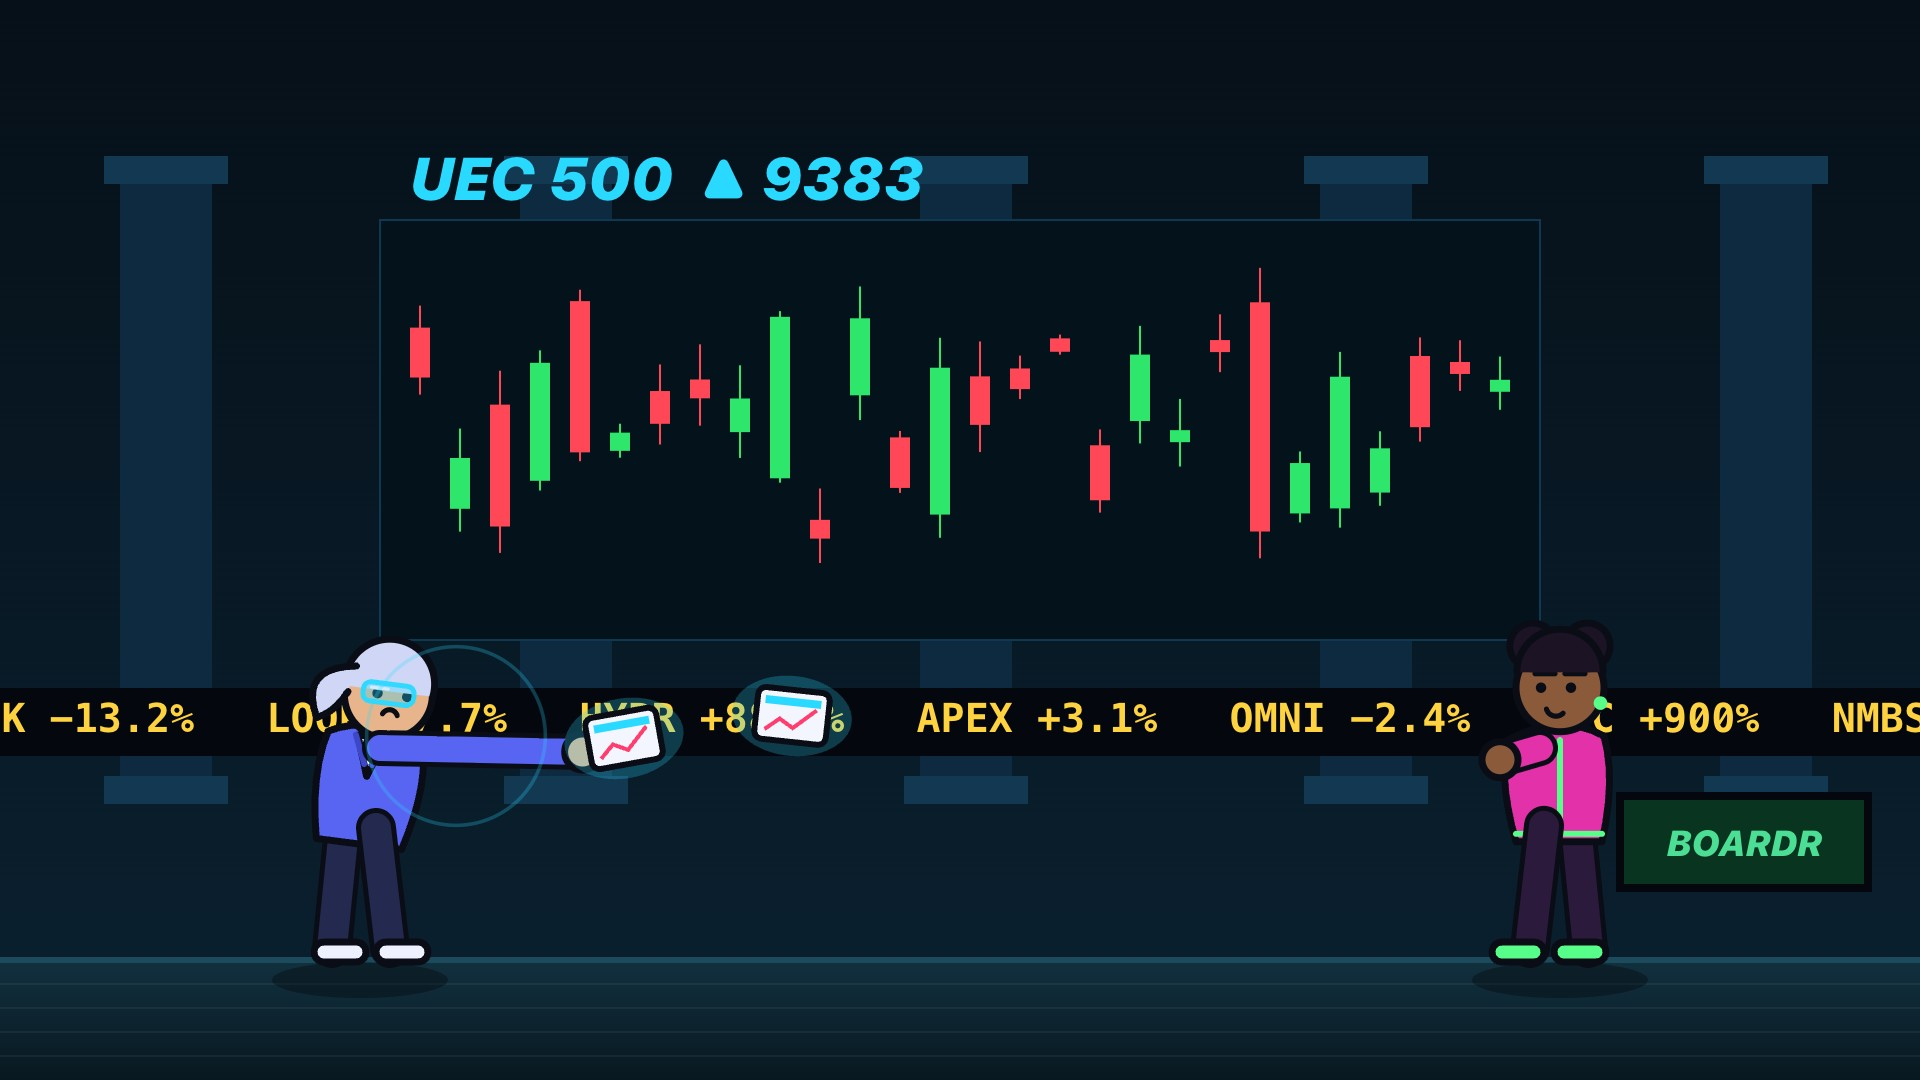
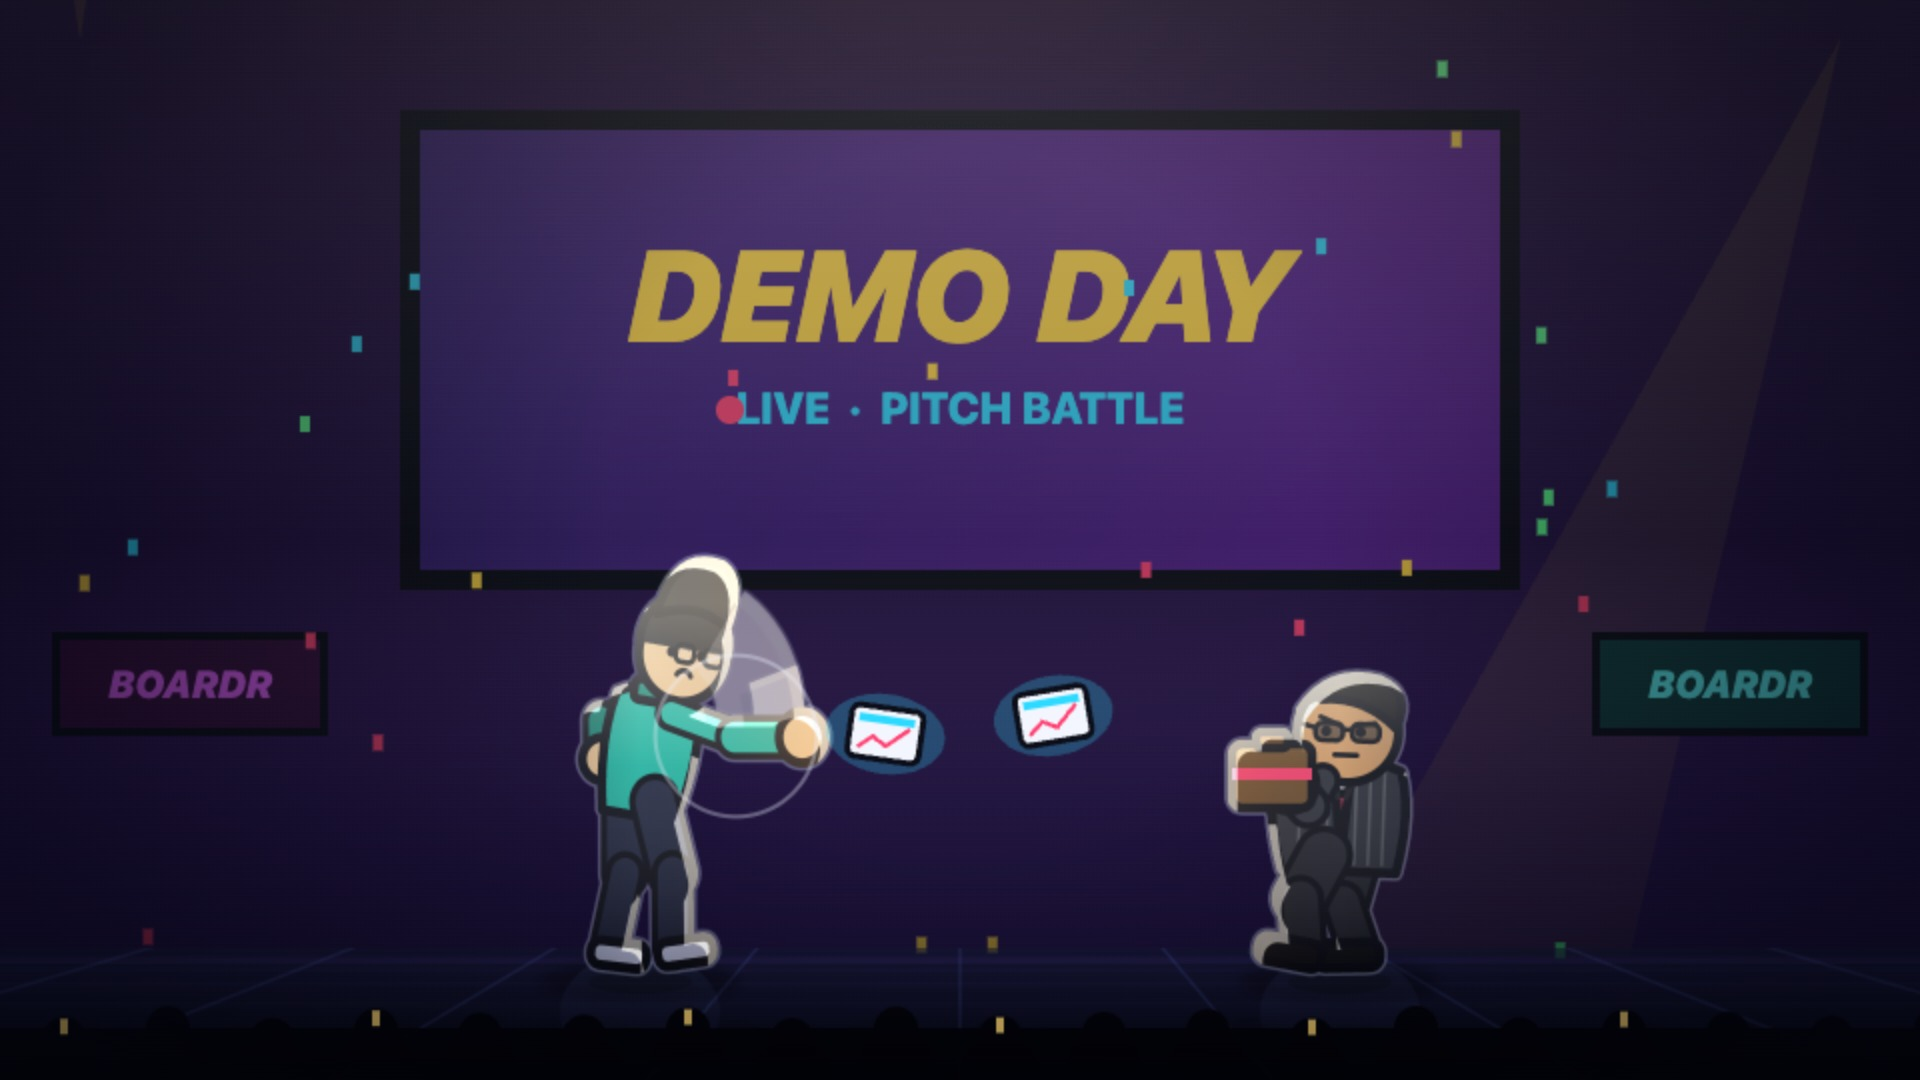
fix: the share card stops lying about the game
og-image.jpg and shots/ were cut on 2026-07-18 and had survived the entire
v2.0 art pass, v2.4, v2.5 and v2.6 — four releases of character work that
nobody following a shared link had ever seen. Stale would have been
forgivable. It had also gone WRONG:

  - "6 FIGHTERS" against a roster of nine.
  - "PLAY FREE IN YOUR BROWSER — NO SIGNUP" against AUTH.REQUIRED = true.
    Every share promised no signup and delivered a sign-in wall.

So the copy is derived from the data now. FIGHTERS.length and ARENAS.length
are counted at render time; add a founder and the card counts them. The
portraits go through the game's own drawPortrait, so the cel shading, the
silhouette work and the new key line turn up here for free next time too.

The screenshots are real frames of the real game, and getting there took
three tries, each wrong in an instructive way:

  - Shots reuse one live match, so state LEAKS. The first cut had a founder
    still wearing the Unicorn Mode horn on the Demo Day stage, and the rival
    frozen in a grimace it had earned two screenshots earlier.
  - renderGame only DRAWS. An attack started and never stepped sits in its
    wind-up forever, which is why both fighters looked like they were
    politely guarding. Stepping needs game.state = 'fighting' — I had
    'fight', which is not a state, so the update loop skipped the fighters
    entirely and 22 frames of stepping changed nothing.
  - A fighter resolves its `special` at CONSTRUCTION. Setting a.special
[…]

diff --git a/lab/marketing.js b/lab/marketing.js
@@ -1,0 +1,230 @@
+// Marketing assets, rendered BY THE GAME so they cannot drift from the build.
+//
+// The previous set was cut on 2026-07-18 and was still live through v2.0's art
+// pass, v2.4, v2.5 and v2.6 — four releases of character work that nobody
+// sharing a link ever saw. Worse, the card had gone from stale to WRONG: it
+// advertised "6 FIGHTERS" against a roster of nine, and "NO SIGNUP" against
+// AUTH.REQUIRED = true. Anyone clicking through hit a sign-in wall the card
+// had just promised them they would not.
+//
+// So the copy is derived from the data, not typed in. Add a fighter and the
+// card counts it.
+//
+//   import { renderAll } from '/lab/marketing.js';
+//   await renderAll();            // writes og-image.jpg + shots/*.jpg
+//
+// Needs dev-server.py (its PUT handler is what puts bytes on disk).
+
+const YELLOW = '#ffd23f', PINK = '#ff3d6e', CYAN = '#29d9ff', INK = '#05070f';
+
+function canvas(w, h) {
+  const c = document.createElement('canvas');
+  c.width = w; c.height = h;
+  return c;
+}
+
+async function put(path, cv, quality = 0.92) {
+  const blob = await new Promise((r) => cv.toBlob(r, 'image/jpeg', quality));
+  const res = await fetch(path, { method: 'PUT', body: blob });
+  return `${path} → ${res.status} (${Math.round(blob.size / 1024)} KB)`;
+}
+
+// Punchy display text: dark outline under a flat fill, the same treatment the
+// in-game popups and the challenge card use.
+function shout(ctx, text, x, y, size, fill, { align = 'center', weight = '900 italic', stroke = 9 } = {}) {
+  ctx.save();
+  ctx.textAlign = align;
+  ctx.font = `${weight} ${size}px system-ui`;
+  ctx.lineJoin = 'round';
+  if (stroke) { ctx.strokeStyle = INK; ctx.lineWidth = stroke; ctx.strokeText(text, x, y); }
+  ctx.fillStyle = fill;
+  ctx.fillText(text, x, y);
+  ctx.restore();
+}
+
+function backdrop(ctx, W, H) {
+  const g = ctx.createLinearGradient(0, 0, W, H);
+  g.addColorStop(0, '#0b0e1a'); g.addColorStop(0.5, '#1a1030'); g.addColorStop(1, '#241238');
+  ctx.fillStyle = g; ctx.fillRect(0, 0, W, H);
+
+  ctx.save();                                   // burst rays
+  ctx.translate(W / 2, H * 0.46);
+  ctx.globalAlpha = 0.075; ctx.fillStyle = YELLOW;
+  for (let i = 0; i < 14; i++) {
+    ctx.rotate(Math.PI / 7);
+    ctx.beginPath(); ctx.moveTo(0, 0); ctx.lineTo(-46, 900); ctx.lineTo(46, 900); ctx.closePath(); ctx.fill();
+  }
+  ctx.restore();
+
+  ctx.save();                                   // corner stripes
+  ctx.globalAlpha = 0.9;
+  ctx.fillStyle = PINK;
+  ctx.beginPath(); ctx.moveTo(0, 0); ctx.lineTo(120, 0); ctx.lineTo(40, H); ctx.lineTo(0, H); ctx.closePath(); ctx.fill();
+  ctx.fillStyle = YELLOW;
+  ctx.beginPath(); ctx.moveTo(W, H); ctx.lineTo(W - 120, H); ctx.lineTo(W - 40, 0); ctx.lineTo(W, 0); ctx.closePath(); ctx.fill();
+  ctx.restore();
+}
+
+export async function renderOg(path = '/og-image.jpg') {
+  const { drawPortrait } = await import('/src/engine/drawFighter.js');
+  const { FIGHTERS, getFighter } = await import('/src/data/fighters.js');
+  const { ARENAS } = await import('/src/data/arenas.js');
+
+  const W = 1200, H = 630;
+  const cv = canvas(W, H);
+  const ctx = cv.getContext('2d');
+  backdrop(ctx, W, H);
+
+  // Two portraits at the real portrait size, drawn by the game's own renderer,
+  // so the cel shading and silhouette work show up here automatically.
+  //
+  // Layout note: the portraits flank a centre column, and the bullet line is
+  // the widest element on the card — it goes BELOW them rather than beside
+  // them, or it runs straight through both frames.
+  const P = 260, fy = 210;
+  const faces = ['ava', 'dex'].map((id) => {
+    const pc = canvas(P, P);
+    drawPortrait(pc, getFighter(id));
+    return pc;
+  });
+  [[52, faces[0], PINK], [W - 52 - P, faces[1], CYAN]].forEach(([x, pc, ring]) => {
+    ctx.save();
+    ctx.shadowColor = 'rgba(0,0,0,0.55)'; ctx.shadowBlur = 26; ctx.shadowOffsetY = 8;
+    ctx.drawImage(pc, x, fy, P, P);
+    ctx.restore();
+    ctx.strokeStyle = ring; ctx.lineWidth = 6;
+    ctx.beginPath(); ctx.roundRect(x, fy, P, P, 32); ctx.stroke();
+  });
+
+  ctx.textBaseline = 'alphabetic';
+  shout(ctx, 'UEC', W / 2, 190, 132, YELLOW, { stroke: 14 });
+  shout(ctx, 'ULTIMATE ENTREPRENEUR CHALLENGE', W / 2, 240, 27, CYAN, { stroke: 8 });
+  shout(ctx, 'FOUNDERS FIGHT. VALUATIONS FALL.', W / 2, 286, 24, '#c9d4f5', { stroke: 7 });
+
+  // CTA. It no longer claims "no signup" — AUTH.REQUIRED is true, and the card
+  // was sending people to a sign-in wall it had promised did not exist.
+  const label = 'PLAY FREE IN YOUR BROWSER';
+  ctx.font = '900 italic 27px system-ui';
+  const pw = ctx.measureText(label).width + 72;
+  const px = (W - pw) / 2, py = 322;
+  ctx.save();
+  ctx.fillStyle = 'rgba(6,9,22,0.85)';
+  ctx.strokeStyle = YELLOW; ctx.lineWidth = 5;
+  ctx.beginPath(); ctx.roundRect(px, py, pw, 58, 29); ctx.fill(); ctx.stroke();
+  ctx.restore();
+  shout(ctx, label, W / 2, py + 39, 27, YELLOW, { stroke: 0 });
+
+  // Counted, not typed — this is how the card went wrong last time.
+  const bullets = [
+    `${FIGHTERS.length} FIGHTERS`,
+    `${ARENAS.length} ARENAS`,
+    'BUILD YOUR OWN FOUNDER',
+    'FIGHT FRIENDS LIVE',
+  ].join('  ·  ');
+  shout(ctx, bullets, W / 2, 556, 25, '#9fb0d9', { stroke: 6 });
+
+  return put(path, cv);
+}
+
+// A real frame of the real game, captured through the real render path.
+//
+// Two things this has to do that are easy to miss. Every shot reuses the same
+// live match, so state LEAKS — the first cut of these had a fighter still
+// wearing the Unicorn Mode horn on the Demo Day stage and the rival stuck in a
+// hitstun grimace it had earned two screenshots earlier. And renderGame only
+// draws; it does not advance anything, so an attack started and never stepped
+// is frozen in its wind-up. A punch that never extends is not an action shot.
+function reset(g, a, b) {
+  for (const f of [a, b]) {
+    f.state = 'idle'; f.attack = null; f.hitstunT = 0; f.unicornT = 0;
+    f.energy = 0; f.vx = 0; f.vy = 0; f.y = 480; f.flashT = 0; f.comboTaken = 0;
+    f.hp = f.maxHp ?? 100;
+  }
+  g.projectiles.length = 0; g.traps.length = 0; g.afterimages.length = 0;
+  g.fx.particles.length = 0; g.fx.popups.length = 0; g.fx.rings.length = 0;
+  g.fx.shakeMag = 0; g.fx.hitstopT = 0; g.fx.flashA = 0;
+  g.drops.length = 0;
+}
+
+// Start a match with a chosen pair. A fighter resolves its `special` when it is
+// CONSTRUCTED, so you cannot hand someone else's move to an existing fighter —
+// the volley shot has to be cast with the founder who actually owns it.
+async function cast(p1, p2, arenaId) {
+  const { Save } = await import('/src/state.js');
+  const { getArena } = await import('/src/data/arenas.js');
+  const { getFighter } = await import('/src/data/fighters.js');
+  Save.data.tutorialSeen = true;          // else startMatch defers to onboarding
+  UEC.startMatch({ mode: 'solo', p1Def: getFighter(p1), p2Def: getFighter(p2),
+                   arena: getArena(arenaId), difficulty: 'contender', isChallenge: false });
+  for (let i = 0; i < 60 && (UEC.game?.fighters?.length ?? 0) < 2; i++) {
+    await new Promise((r) => setTimeout(r, 50));
+  }
+  return UEC.game;
+}
+
+async function gameShot({ arena, p1, p2, setup, steps = 0, dress = null }) {
+  const R = await import('/src/engine/render.js');
+  const g = await cast(p1, p2, arena);
+  const cv = document.getElementById('gameCanvas');
+  const ctx = cv.getContext('2d');
+  const [a, b] = g.fighters;
+
+  // 'fighting', not 'fight'. An unrecognised state leaves the update loop
+  // skipping the fighters entirely: the attack starts, never advances, and
+  // every shot comes out frozen in its wind-up looking like a guard.
+  g.state = 'fighting'; g.paused = false;
+  reset(g, a, b);
+  setup(g, a, b);
+
+  // Advance the actual simulation so poses, projectiles and impacts are real.
+  for (let i = 0; i < steps; i++) UEC.step(1 / 60);
+  if (dress) dress(g, a, b);              // garnish AFTER stepping, so it survives
+
+  R.renderGame(ctx, g);
+  const out = canvas(cv.width, cv.height);
+  out.getContext('2d').drawImage(cv, 0, 0);
+  return out;
+}
+
+export async function renderShots() {
+  const { UNICORN } = await import('/src/config.js');
+  const results = [];
+
+  // Unicorn mode landing a hit. Stepped far enough for the punch to be OUT and
+  // to have connected, so the impact FX are the game's own, not dressing.
+  // gap 100 / 4 steps is the frame where the punch is OUT and has connected —
+  // found by stepping the sim and watching hasHit, not by eye.
+  results.push(await put('/shots/unicorn-brawl.jpg', await gameShot({
+    arena: 'unicorn', p1: 'ava', p2: 'zara',
+    setup: (g, a, b) => {
+      a.x = 430; b.x = 530;
+      a.unicornT = UNICORN.DURATION; a.energy = 100;
+      a.startAttack('punch', g);
+    },
+    steps: 4,
+    dress: (g) => {
+      g.fx.shakeMag = 0;                  // a shaky frame just looks blurry
+      g.fx.sparkles(500, 420, 10);
+    },
+  })));
+
+  // The volley mid-flight. Cast on Steve Nojobs because PITCH DECK STRIKE is
+  // his — the first cut used a founder whose special is a melee pivot and the
+  // "volley" screenshot had no projectile in it at all.
+  results.push(await put('/shots/pitch-deck.jpg', await gameShot({
+    arena: 'demoday', p1: 'kai', p2: 'dex',
+    setup: (g, a, b) => {
+      a.x = 320; b.x = 670;
+      a.energy = 100;
+      a.startSpecial(g);
+    },
+    steps: 26,
+    dress: (g) => { g.fx.shakeMag = 0; },
+  })));
+
+  return results;
+}
+
+export async function renderAll() {
+  return [await renderOg(), ...(await renderShots())];
+}
